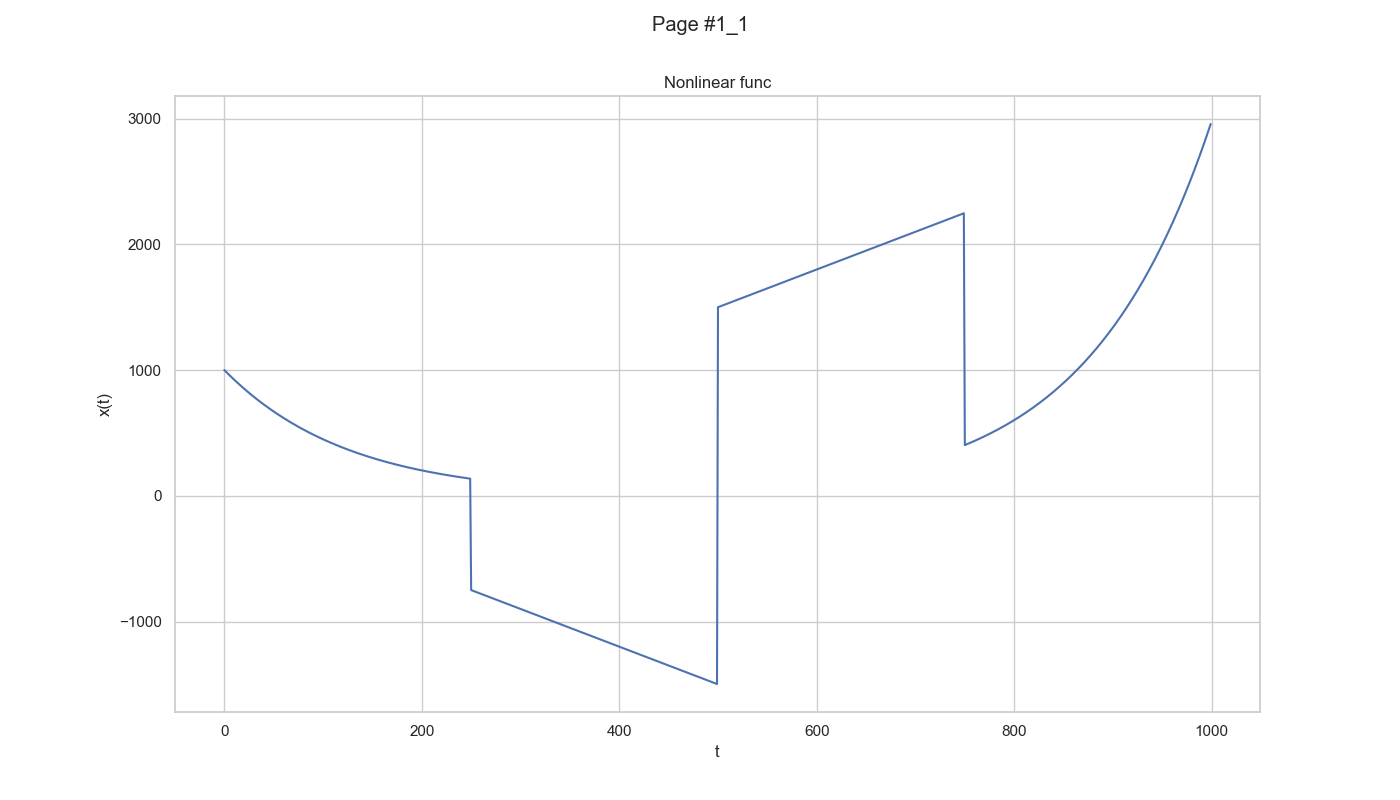
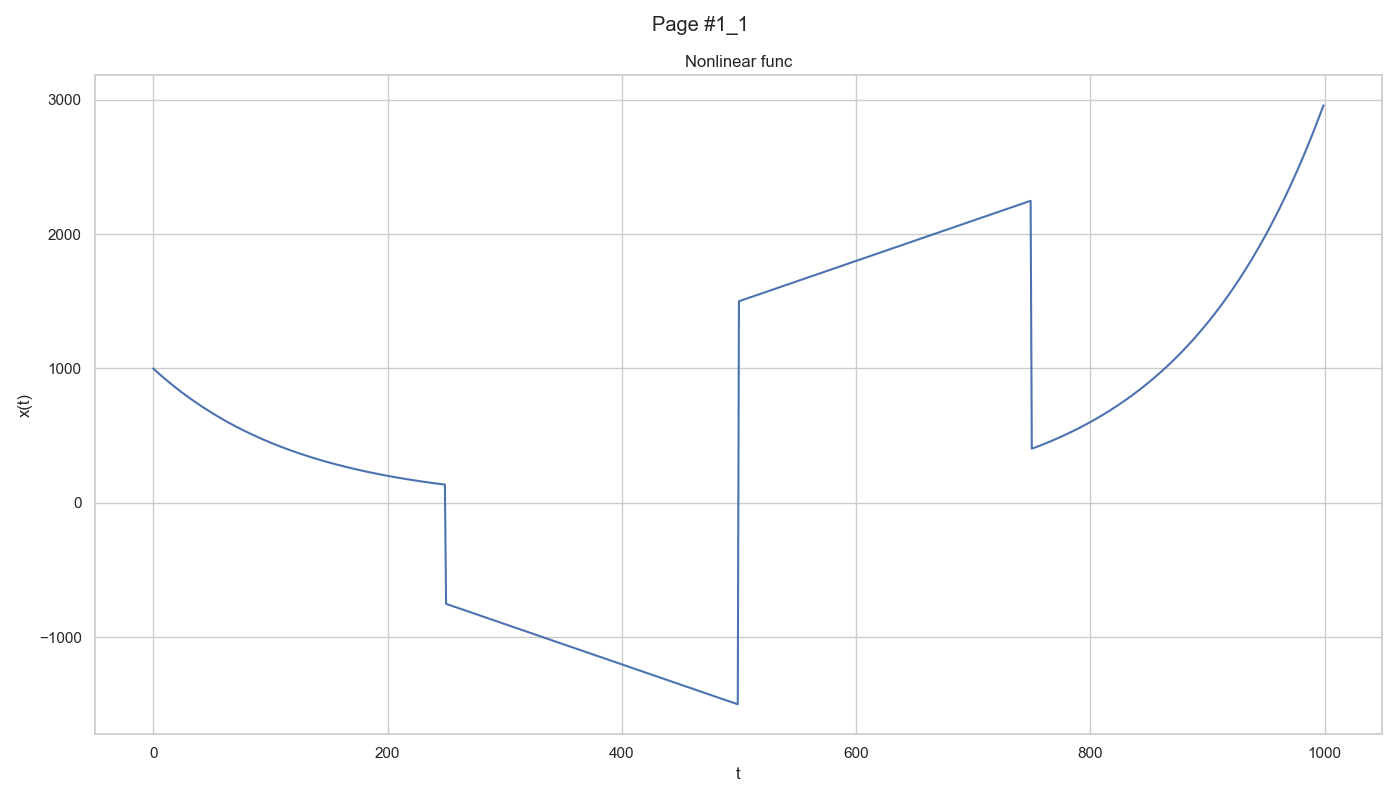
Lab1: fix plots layout

diff --git a/Lab1/src/main.py b/Lab1/src/main.py
@@ -1,3 +1,5 @@
+import os
+
 import matplotlib.pyplot as plt
 import seaborn as sns
 import numpy as np
@@ -64,6 +66,7 @@ def piecewise_nonlinear_func():
     plt.title('Nonlinear func')
     line_plot.set_xlabel('t', fontsize=12)
     line_plot.set_ylabel('x(t)', fontsize=12)
+    plt.tight_layout()
     fig.savefig("./plots/fig_1_1.png")
 
 def __check_trend(i: int) -> str:
@@ -82,13 +85,14 @@ def __check_trend(i: int) -> str:
 
 if __name__ == '__main__':
     sns.set(style="whitegrid")
+    if not os.path.exists("./plots"):
+        os.makedirs("./plots")
 
     for func, i in zip([test_trend_method, test_shift_method, test_mult_method], range(1, 4)):
         fig = plt.figure(figsize=(14, 8))
         fig.suptitle(f"Page #{i}")
         func()
+        plt.tight_layout()
         fig.savefig(f"./plots/fig_{i}.png")
-
     piecewise_nonlinear_func()
-    plt.tight_layout()
     plt.show()
